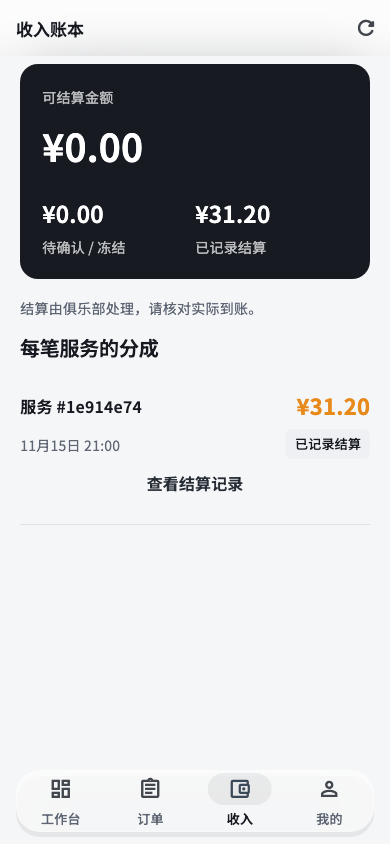
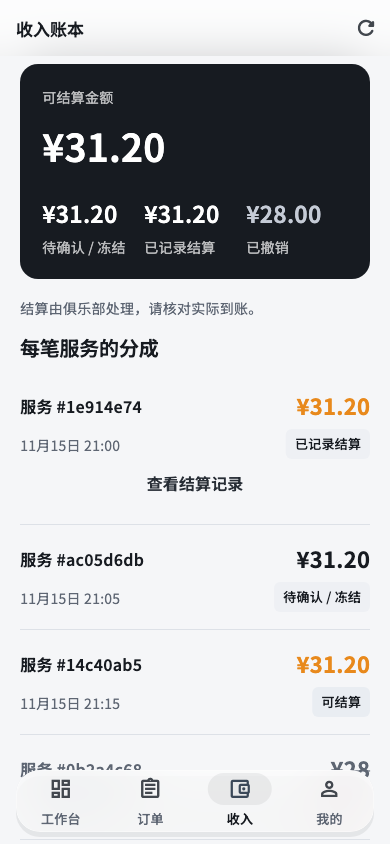
feat(member): 收入账本补齐冻结/可结算/已记录/已撤销四状态演示，撤销条目置灰划线并对齐小程序

diff --git a/apps/mobile/lib/member.dart b/apps/mobile/lib/member.dart
@@ -655,6 +655,11 @@ class _MemberPageState extends State<MemberPage> {
                   '已记录结算',
                   Colors.white,
                 ),
+                _metric(
+                  '¥${((totals['reversedCents'] as num? ?? 0) / 100).toStringAsFixed(2)}',
+                  '已撤销',
+                  const Color(0xFFC5CBD6),
+                ),
               ],
             ),
           ],
@@ -680,18 +685,27 @@ class _MemberPageState extends State<MemberPage> {
                   Expanded(
                     child: Text(
                       '服务 #${e['orderId'].toString().substring(0, 8)}',
-                      style: const TextStyle(
+                      style: TextStyle(
                         fontSize: 16,
                         fontWeight: FontWeight.w600,
+                        color: e['state'] == 'reversed' ? muted : ink,
                       ),
                     ),
                   ),
                   Text(
                     '¥${money(e, 'memberCents')}',
-                    style: const TextStyle(
+                    style: TextStyle(
                       fontSize: 22,
                       fontWeight: FontWeight.w700,
-                      color: accent,
+                      color: switch (e['state']) {
+                        'reversed' => muted,
+                        'held' => ink,
+                        _ => accent,
+                      },
+                      decoration: e['state'] == 'reversed'
+                          ? TextDecoration.lineThrough
+                          : TextDecoration.none,
+                      decorationColor: muted,
                     ),
                   ),
                 ],
@@ -713,8 +727,15 @@ class _MemberPageState extends State<MemberPage> {
                           'reversed': '已撤销',
                         }[e['state']] ??
                         '待处理',
-                    fill: e['state'] == 'available' ? sage : sand,
-                    color: ink,
+                    fill: switch (e['state']) {
+                      'available' => sage,
+                      'reversed' => const Color(0xFFFBEFEF),
+                      _ => sand,
+                    },
+                    color: switch (e['state']) {
+                      'reversed' => const Color(0xFF9A3A3A),
+                      _ => ink,
+                    },
                   ),
                 ],
               ),

diff --git a/apps/miniprogram/pages/earnings/earnings.js b/apps/miniprogram/pages/earnings/earnings.js
@@ -1,2 +1,2 @@
 const {api,createPage,money,datetime}=require('../../utils/page');
-Page(createPage({data:{skeletonKind:'stats',entries:[],settlements:[],totals:{},active:'all',tabs:[{id:'all',name:'全部'},{id:'held',name:'待确认 / 冻结'},{id:'available',name:'待结算'},{id:'settled',name:'已记录结算'},{id:'reversed',name:'已撤销'}]},onLoad(){this.load();},load(){return this.run(async()=>{const data=await api.authorized('/member/earnings'),labels={held:'待确认 / 冻结',available:'待结算',settled:'已记录结算',reversed:'已撤销'};this.setData({all:data.entries.map(e=>Object.assign({},e,{amount:money(e.memberCents),gross:money(e.grossCents),club:money(e.clubCents),label:labels[e.state],time:datetime(e.createdAt)})),totals:{held:money(data.totals.heldCents),available:money(data.totals.availableCents),settled:money(data.totals.settledCents)},settlements:data.settlements.map(s=>Object.assign({},s,{amount:money(s.memberCents),time:datetime(s.createdAt)}))});this.filter();});},choose(e){this.setData({active:e.currentTarget.dataset.id});this.filter();},filter(){this.setData({entries:this.data.all.filter(e=>this.data.active==='all'||e.state===this.data.active)});}}));
+Page(createPage({data:{skeletonKind:'stats',entries:[],settlements:[],totals:{},active:'all',tabs:[{id:'all',name:'全部'},{id:'held',name:'待确认 / 冻结'},{id:'available',name:'待结算'},{id:'settled',name:'已记录结算'},{id:'reversed',name:'已撤销'}]},onLoad(){this.load();},load(){return this.run(async()=>{const data=await api.authorized('/member/earnings'),labels={held:'待确认 / 冻结',available:'待结算',settled:'已记录结算',reversed:'已撤销'};this.setData({all:data.entries.map(e=>Object.assign({},e,{amount:money(e.memberCents),gross:money(e.grossCents),club:money(e.clubCents),label:labels[e.state],time:datetime(e.createdAt),reversed:e.state==='reversed'})),totals:{held:money(data.totals.heldCents),available:money(data.totals.availableCents),settled:money(data.totals.settledCents),reversed:money(data.totals.reversedCents||0)},settlements:data.settlements.map(s=>Object.assign({},s,{amount:money(s.memberCents),time:datetime(s.createdAt)}))});this.filter();});},choose(e){this.setData({active:e.currentTarget.dataset.id});this.filter();},filter(){this.setData({entries:this.data.all.filter(e=>this.data.active==='all'||e.state===this.data.active)});}}));
